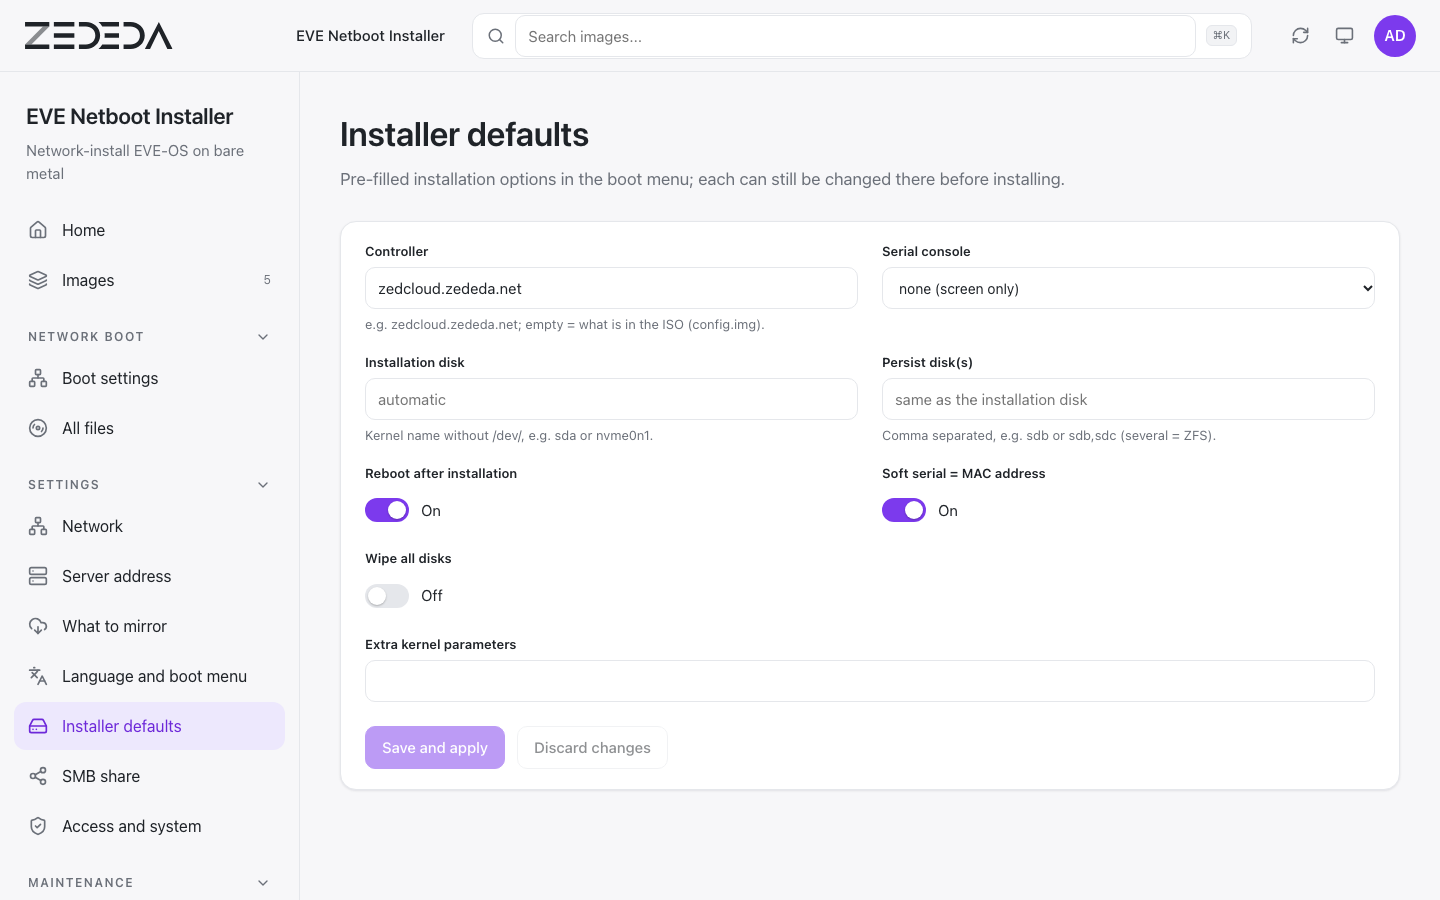
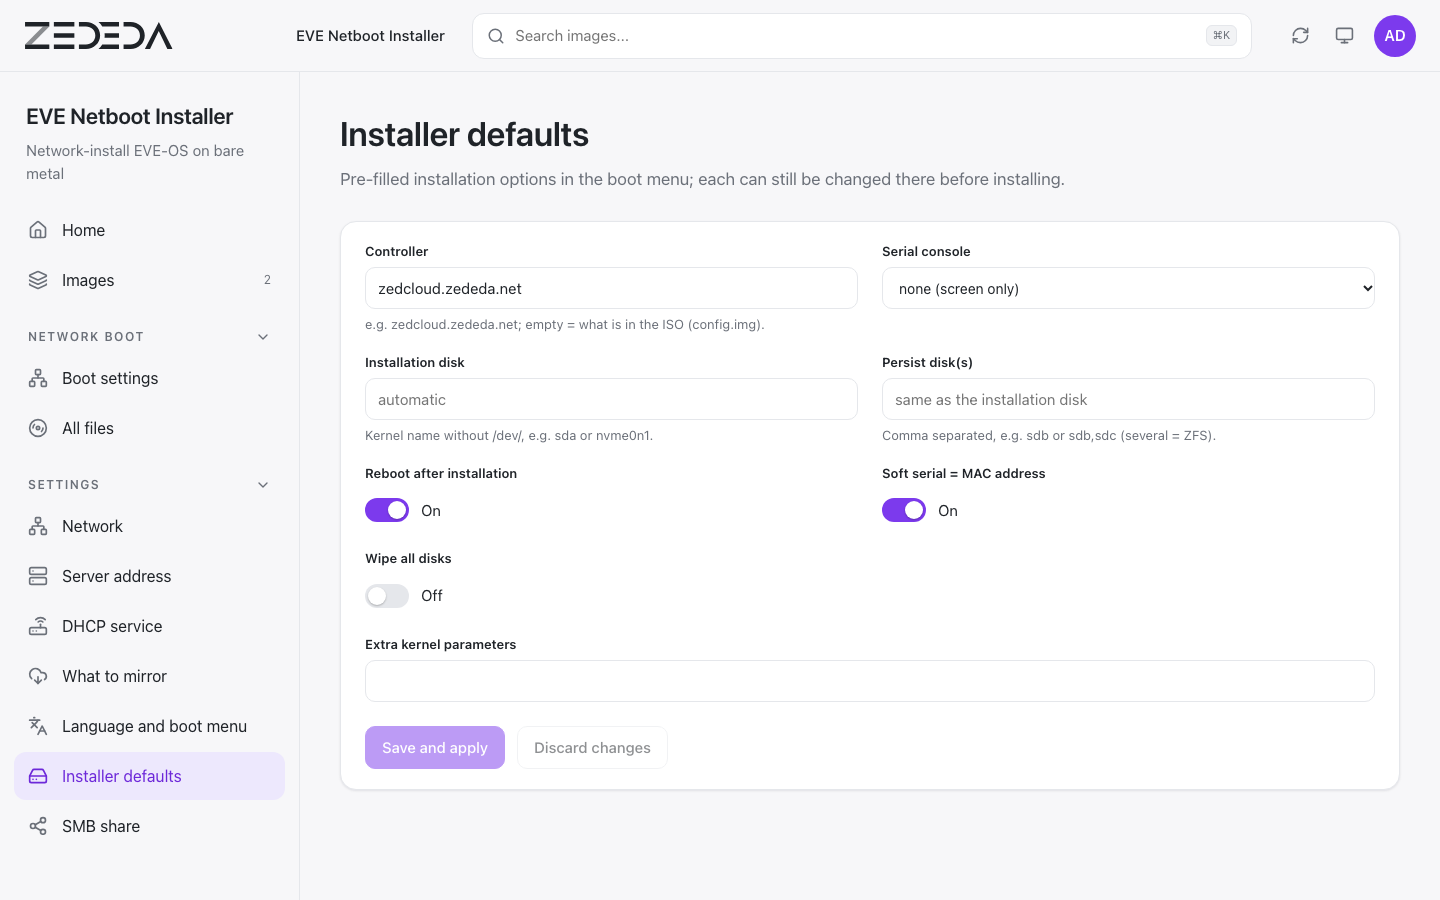
docs(images): ZEDEDA onboarding screenshots; web UI layout of the onboarding page
- New: the onboarding page (web-zededa.png) and the summary of an EVE-OS 17
  image in the boot menu (ipxe-onboard.png); web-settings.png again with
  the current sidebar. Documentation network, example machines.
- The onboarding page shows the login and the onboarded machines above the
  settings; one column for result and state, the machine on two lines,
  compact session card, buttons grouped.
- The summary's ZEDEDA line is shorter (ZEDEDA node: <name> in <project>)
  so it fits iPXE's 76 columns in all languages.

diff --git a/ui/src/pages/ZededaSession.tsx b/ui/src/pages/ZededaSession.tsx
@@ -9,6 +9,14 @@ import { Confirm, errorText, useToast } from "../forms";
 import { useT } from "../i18n";
 
 const time = (s: number | null) => (s ? new Date(s * 1000).toLocaleString() : "?");
+// today: only the time; otherwise date and time
+const when = (s?: number) => {
+  if (!s) return "-";
+  const d = new Date(s * 1000);
+  return d.toDateString() === new Date().toDateString()
+    ? d.toLocaleTimeString([], { hour: "2-digit", minute: "2-digit" })
+    : d.toLocaleString([], { dateStyle: "short", timeStyle: "short" });
+};
 
 const STATE_TONE: Record<string, string> = {
   online: "ok", starting: "info", waiting: "warn", offline: "warn", error: "err", gone: "err",
@@ -89,17 +97,17 @@ export default function ZededaSession() {
         {warning && <div className="alert warn"><TriangleAlert size={16} /> {warning}</div>}
         {s ? (
           <>
-            <p>
-              <span className="pill ok">{t("adm_zo_logged_in")}</span>{" "}
-              {s.via === "token"
-                ? t("adm_zo_session_token_text", { cluster: s.cluster })
-                : t("adm_zo_session_text", { user: s.user, enterprise: s.enterprise, cluster: s.cluster,
-                                             until: time(s.expires) })}
-            </p>
-            <p className="muted small">{t("adm_zo_memory_note")}</p>
-            <div className="form-actions">
-              <button className="btn" disabled={busy} onClick={logout}><LogOut size={16} /> {t("adm_zo_logout")}</button>
+            <div className="session-row">
+              <p>
+                <span className="pill ok">{t("adm_zo_logged_in")}</span>{" "}
+                {s.via === "token"
+                  ? t("adm_zo_session_token_text", { cluster: s.cluster })
+                  : t("adm_zo_session_text", { user: s.user, enterprise: s.enterprise, cluster: s.cluster,
+                                               until: time(s.expires) })}
+              </p>
+              <button className="btn slim" disabled={busy} onClick={logout}><LogOut size={16} /> {t("adm_zo_logout")}</button>
             </div>
+            <p className="muted small">{t("adm_zo_memory_note")}</p>
           </>
         ) : (
           <>
@@ -137,12 +145,12 @@ export default function ZededaSession() {
         )}
       </Card>
       <Card title={t("adm_zo_onboarded")} actions={info.onboarded.length > 0 && (
-        <>
+        <div className="card-actions">
           {s && (
             <button className="btn slim" onClick={() => load(true)}><RefreshCw size={16} /> {t("adm_zo_check_now")}</button>
           )}
           <a className="btn slim" href="api/zededa/export" download><Download size={16} /> {t("adm_zo_export_csv")}</a>
-        </>
+        </div>
       )}>
         {nodes.length > 0 && (
           <p>
@@ -163,7 +171,6 @@ export default function ZededaSession() {
                   <th>{t("adm_zo_col_name")}</th>
                   <th>{t("adm_zo_col_mac")}</th>
                   <th>{t("adm_zo_col_machine")}</th>
-                  <th>{t("adm_zo_col_result")}</th>
                   <th>{t("adm_zo_col_state")}</th>
                   <th></th>
                 </tr>
@@ -171,27 +178,32 @@ export default function ZededaSession() {
               <tbody>
                 {info.onboarded.map((n) => (
                   <tr key={n.mac}>
-                    <td>{time(n.time)}</td>
-                    <td>{n.name}</td>
-                    <td className="mono">{n.mac}</td>
-                    <td>{[n.product, n.hardware_serial].filter(Boolean).join(", ") || "-"}</td>
+                    <td className="nowrap">{when(n.time)}</td>
+                    <td className="nowrap"><strong>{n.name}</strong></td>
+                    <td className="mono nowrap">{n.mac}</td>
                     <td>
-                      <span className={`pill ${n.result === "failed" ? "err" : n.result === "deleted" ? "neutral" : "ok"}`}>
-                        {t(`adm_zo_result_${n.result}`)}
-                      </span>
-                      {n.result === "failed" && <div className="small err-text">{n.message}</div>}
+                      {n.product || "-"}
+                      {n.hardware_serial && <div className="small muted mono">{n.hardware_serial}</div>}
                     </td>
                     <td>
+                      {n.result === "failed" || n.result === "deleted" || !n.status ? (
+                        <span className={`pill ${n.result === "failed" ? "err" : n.result === "deleted" ? "neutral" : "ok"}`}>
+                          {t(`adm_zo_result_${n.result}`)}
+                        </span>
+                      ) : (
+                        <span className={`pill ${STATE_TONE[n.status.state]}`} title={n.status.run_state ?? ""}>
+                          {t(`adm_zo_state_${n.status.state}`)}
+                        </span>
+                      )}
+                      {n.result === "failed" && <div className="small err-text">{n.message}</div>}
                       {n.result !== "failed" && n.result !== "deleted" && (
                         <>
-                          <span className={`pill ${STATE_TONE[n.status?.state ?? "unknown"]}`}
-                            title={n.status?.run_state ?? ""}>
-                            {t(`adm_zo_state_${n.status?.state ?? "unknown"}`)}
-                          </span>
-                          <div className="small muted">
-                            {n.online_since ? `${t("adm_zo_online_since")} ${time(n.online_since)}` : ""}
-                            {n.status?.eve ? ` · ${t("adm_zo_eve_version")} ${n.status.eve}` : ""}
-                          </div>
+                          {(n.online_since || n.status?.eve) && (
+                            <div className="small muted">
+                              {[n.online_since ? `${t("adm_zo_online_since")} ${when(n.online_since)}` : "",
+                                n.status?.eve ? `${t("adm_zo_eve_version")} ${n.status.eve}` : ""].filter(Boolean).join(" · ")}
+                            </div>
+                          )}
                           {n.status?.error && <div className="small err-text">{n.status.error}</div>}
                         </>
                       )}

diff --git a/ui/src/pages/Settings.tsx b/ui/src/pages/Settings.tsx
@@ -39,6 +39,8 @@ export default function Settings({ section, onSaved }: { section: SectionId; onS
     <div className="page">
       <PageHeader title={t(`adm_sec_${def.id}`)} subtitle={text} />
       {error && <div className="alert err">{error}</div>}
+      {/* ZEDEDA onboarding: the login and the onboarded machines first (every batch), the settings below (once) */}
+      {def.id === "zededa" && <ZededaSession key={state.phase} />}
       <Card>
         {def.warning && (
           <div className="alert warn"><TriangleAlert size={16} /> {t(def.warning)}</div>
@@ -54,7 +56,6 @@ export default function Settings({ section, onSaved }: { section: SectionId; onS
           <SaveStatus state={state} />
         </div>
       </Card>
-      {def.id === "zededa" && <ZededaSession key={state.phase} />}
       {state.phase === "rollback" && (
         <RollbackDialog result={state.result} onClose={() => { reset(); setChanges({}); load(); }} />
       )}

diff --git a/ui/src/styles.css b/ui/src/styles.css
@@ -510,6 +510,12 @@ pre.small-log { max-height: 240px; margin-top: 16px; background: var(--surface-2
 .table.compact th, .table.compact td { padding: 8px 10px; font-size: 13px; white-space: normal; }
 .table.compact th { padding: 8px 10px; }
 .table.compact tbody tr { cursor: default; }
+.table.compact td.nowrap { white-space: nowrap; }
+.table.compact th { white-space: nowrap; }
+.card-actions { display: flex; align-items: center; gap: 10px; flex-wrap: wrap; }
+.session-row { display: flex; align-items: center; justify-content: space-between; gap: 16px; flex-wrap: wrap; }
+.session-row p { margin: 0; }
+.page > .card + .card { margin-top: 20px; }
 .notice.upload { flex-direction: column; align-items: stretch; gap: 6px; }
 .notice.upload .progress { margin: 0; }
 .card > .alert { margin: 20px 24px 0; }

diff --git a/tests/test_web.py b/tests/test_web.py
@@ -534,7 +534,7 @@ class ZededaWebTest(WebBase):
         self.request("POST", "/api/zededa/login", {"password": "zededa-pw"})
         ob = self.onboard("preview")
         self.assertEqual((ob["eve_ob_ok"], ob["eve_ob_s"]),
-                         ("1", "will be registered as eve-52-54-00-12-34-56 in project netboot"))
+                         ("1", "eve-52-54-00-12-34-56 in netboot"))
         self.assertEqual(FakeZededa.created, [])                        # a preview creates nothing
         ob = self.onboard()
         self.assertEqual(ob["eve_ob_ok"], "1")
@@ -616,8 +616,7 @@ class ZededaWebTest(WebBase):
         core.save_settings({**core.load_settings(), "ZEDEDA_NODE_NAME": "bench1-node-{n:3}", "ZEDEDA_NODE_NEXT": "7"})
         self.zededa_login()
         ob = self.onboard("preview")
-        self.assertEqual(ob["eve_ob_s"], "will be registered as bench1-node-007 in project netboot "
-                                         "(the number is fixed when installing)")
+        self.assertEqual(ob["eve_ob_s"], "bench1-node-007 in netboot (number set at install)")
         macs = [f"52-54-00-00-00-{i:02x}" for i in range(3)]
         for mac in macs:
             self.assertEqual(self.onboard(mac=mac)["eve_ob_ok"], "1")
@@ -630,7 +629,7 @@ class ZededaWebTest(WebBase):
         core.save_settings({**core.load_settings(), "ZEDEDA_NODE_NAME": "bench-{n}", "ZEDEDA_NODE_NEXT": "1"})
         self.zededa_login()
         ob = self.onboard("preview", name="Rack 3 / Slot 12")
-        self.assertEqual(ob["eve_ob_s"], "will be registered as rack-3-slot-12 in project netboot")
+        self.assertEqual(ob["eve_ob_s"], "rack-3-slot-12 in netboot")
         self.onboard(name="Rack 3 / Slot 12")
         self.assertEqual(FakeZededa.created[0][0], "rack-3-slot-12")
         self.assertEqual(core.get(core.load_settings(), "ZEDEDA_NODE_NEXT"), "1")   # the counter is untouched
@@ -653,7 +652,7 @@ class ZededaWebTest(WebBase):
         self.onboard()
         FakeZededa.nodes.clear()                                       # deleted in the ZEDEDA UI
         ob = self.onboard("preview")
-        self.assertEqual(ob["eve_ob_s"], "will be registered as eve-52-54-00-12-34-56 in project netboot")
+        self.assertEqual(ob["eve_ob_s"], "eve-52-54-00-12-34-56 in netboot")
         self.assertEqual(self.onboard()["eve_ob_s"], "registered as eve-52-54-00-12-34-56 in project netboot")
         self.assertEqual(len(FakeZededa.created), 2)
 

diff --git a/tests/test_onboarding.py b/tests/test_onboarding.py
@@ -167,7 +167,7 @@ class MenuTest(unittest.TestCase):
         confirm = m[m.index(":eve_confirm_ob"):m.index(":eve_boot\n")]
         self.assertIn("item --key i eve_boot ${eve_sp}Install now [i]", confirm)
         self.assertIn("item --key o eve_ob_toggle ${eve_sp}Onboard in ZEDEDA: ${eve_onboard_s}  [o]", confirm)
-        self.assertIn("isset ${eve_ob_s} && item --gap ZEDEDA: ${eve_ob_s} ||", confirm)
+        self.assertIn("isset ${eve_ob_s} && item --gap ZEDEDA node: ${eve_ob_s} ||", confirm)
         self.assertIn("choose --default eve_menu", confirm)          # Enter alone installs nothing
         # a name for this one machine (key n), sent with both requests
         self.assertIn("iseq ${eve_ob_do} 1 && item --key n eve_ob_rename ${eve_sp}Node name: ${eve_ob_name_s}  [n] ||",

diff --git a/vm/README.md b/vm/README.md
@@ -458,6 +458,8 @@ for which you have to know which soft serial ended up on which machine. Here:
    creates and deletes one test node
    ([how](../docs/design/zededa-onboarding.md#checking-a-zededa-user)).
 
+![ZEDEDA onboarding in the web management](../docs/images/web-zededa.png)
+
 **Each time you install machines:**
 
 1. *ZEDEDA onboarding* → log in to ZEDEDA, in the web management or in the
@@ -468,7 +470,7 @@ for which you have to know which soft serial ended up on which machine. Here:
    the VM or the web management restarts. A password session lasts 4 hours;
    an API token as long as ZEDEDA lets it.
 2. Network boot the machines and choose an EVE-OS 17 (or later) image. Its
-   summary shows *ZEDEDA: will be registered as …* and the choices
+   summary shows *ZEDEDA node: … in …* (the name and the project) and the choices
    **Install now [i]**, **Onboard in ZEDEDA: on [o]** and **Node name [n]**.
    Press **i**: the VM creates the node, then the installation starts.
 3. The list of onboarded machines (web management and console) fills while
@@ -477,6 +479,8 @@ for which you have to know which soft serial ended up on which machine. Here:
    onboarding project; assign their adapters to network instances and move
    them to their own project.
 4. Log out of ZEDEDA when the batch is installed.
+
+![The summary of an EVE-OS 17 image with onboarding](../docs/images/ipxe-onboard.png)
 
 In the summary of an EVE-OS 17+ image:
 

diff --git a/README.md b/README.md
@@ -53,6 +53,8 @@ All taken in a documentation network (`192.0.2.0/24`).
 | **Boot menu** on the machine, in the look of EVE-OS's own console. | **Confirmation** before installing, with the options and a warning. |
 | ![VM appliance console](docs/images/console-status.png) | ![Web management](docs/images/web-settings.png) |
 | **VM appliance console:** status with tabs, coloured states, the keys and a clock. | **Web management** of the VM: the same settings as its console menu. |
+| ![ZEDEDA onboarding in the web management](docs/images/web-zededa.png) | ![Summary of an EVE-OS 17 image with ZEDEDA onboarding](docs/images/ipxe-onboard.png) |
+| **ZEDEDA onboarding:** the machines of a staging bench, their nodes and whether they came online. | **Onboarding in the boot menu:** the node's name from the naming convention, before **`i`**. |
 
 ---
 
@@ -141,7 +143,7 @@ sequenceDiagram
     A->>V: log in to ZEDEDA (web management)
     V->>Z: API token or login, kept in memory only
     C->>V: choose an EVE-OS 17+ image: summary
-    Note over C: ZEDEDA: will be registered as eve-(MAC address)
+    Note over C: ZEDEDA node: eve-(MAC address) in (project)
     C->>V: i: register this MAC address
     V->>Z: create the edge node: no model, serial = MAC, onboarding project
     C->>V: kernel, initrd, installer.iso

diff --git a/docs/design/zededa-onboarding.md b/docs/design/zededa-onboarding.md
@@ -99,7 +99,7 @@ sequenceDiagram
     W->>Z: POST /api/v1/login (password) or check the token
     Z-->>W: token (kept in memory only)
     M->>W: summary of an EVE-OS 17+ image: GET /ipxe/onboard?action=preview
-    W-->>M: "will be registered as eve-<mac> in project <project>"
+    W-->>M: "ZEDEDA node: eve-<mac> in <project>"
     M->>W: n: a name for this machine (optional)
     M->>W: i pressed: GET /ipxe/onboard?action=register
     W->>Z: GET devices/serial/{mac}, else POST devices/model-less
@@ -140,7 +140,7 @@ sequenceDiagram
    application policy or deployment gives a warning.
 4. **Boot menu, only for images of EVE-OS 17.0.0-lts and later.** Their
    summary is a small iPXE menu: the summary lines, the line *ZEDEDA: will be
-   registered as <name> in project <project>* (or why not), **Install now [i]**,
+   ZEDEDA node: <name> in <project>* (or why not), **Install now [i]**,
    **Onboard in ZEDEDA: on/off [o]** (on by default; only with the soft
    serial on) and **Node name [n]**. It is not among the general installation options, which are
    chosen before the image. The summary of older images is unchanged and says
